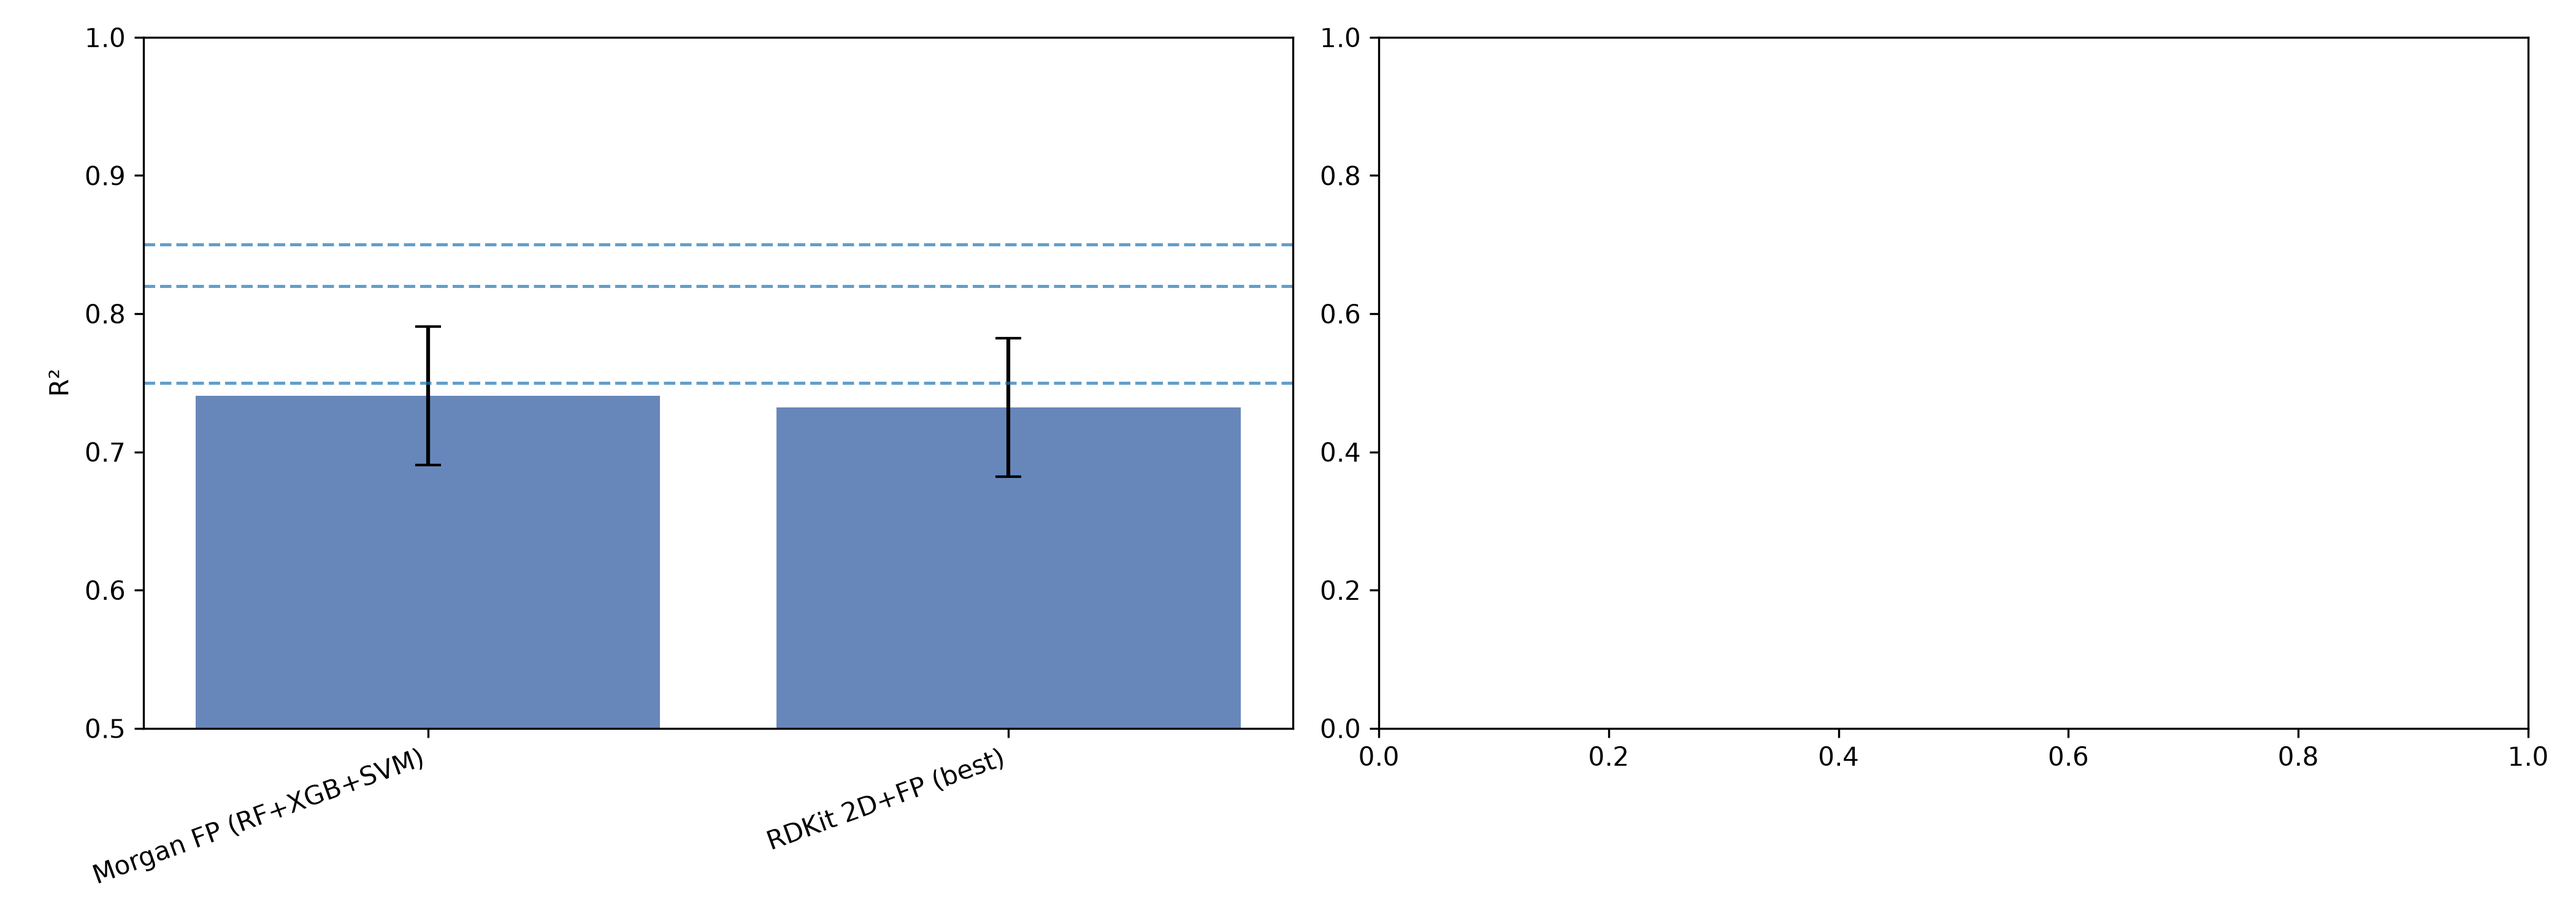
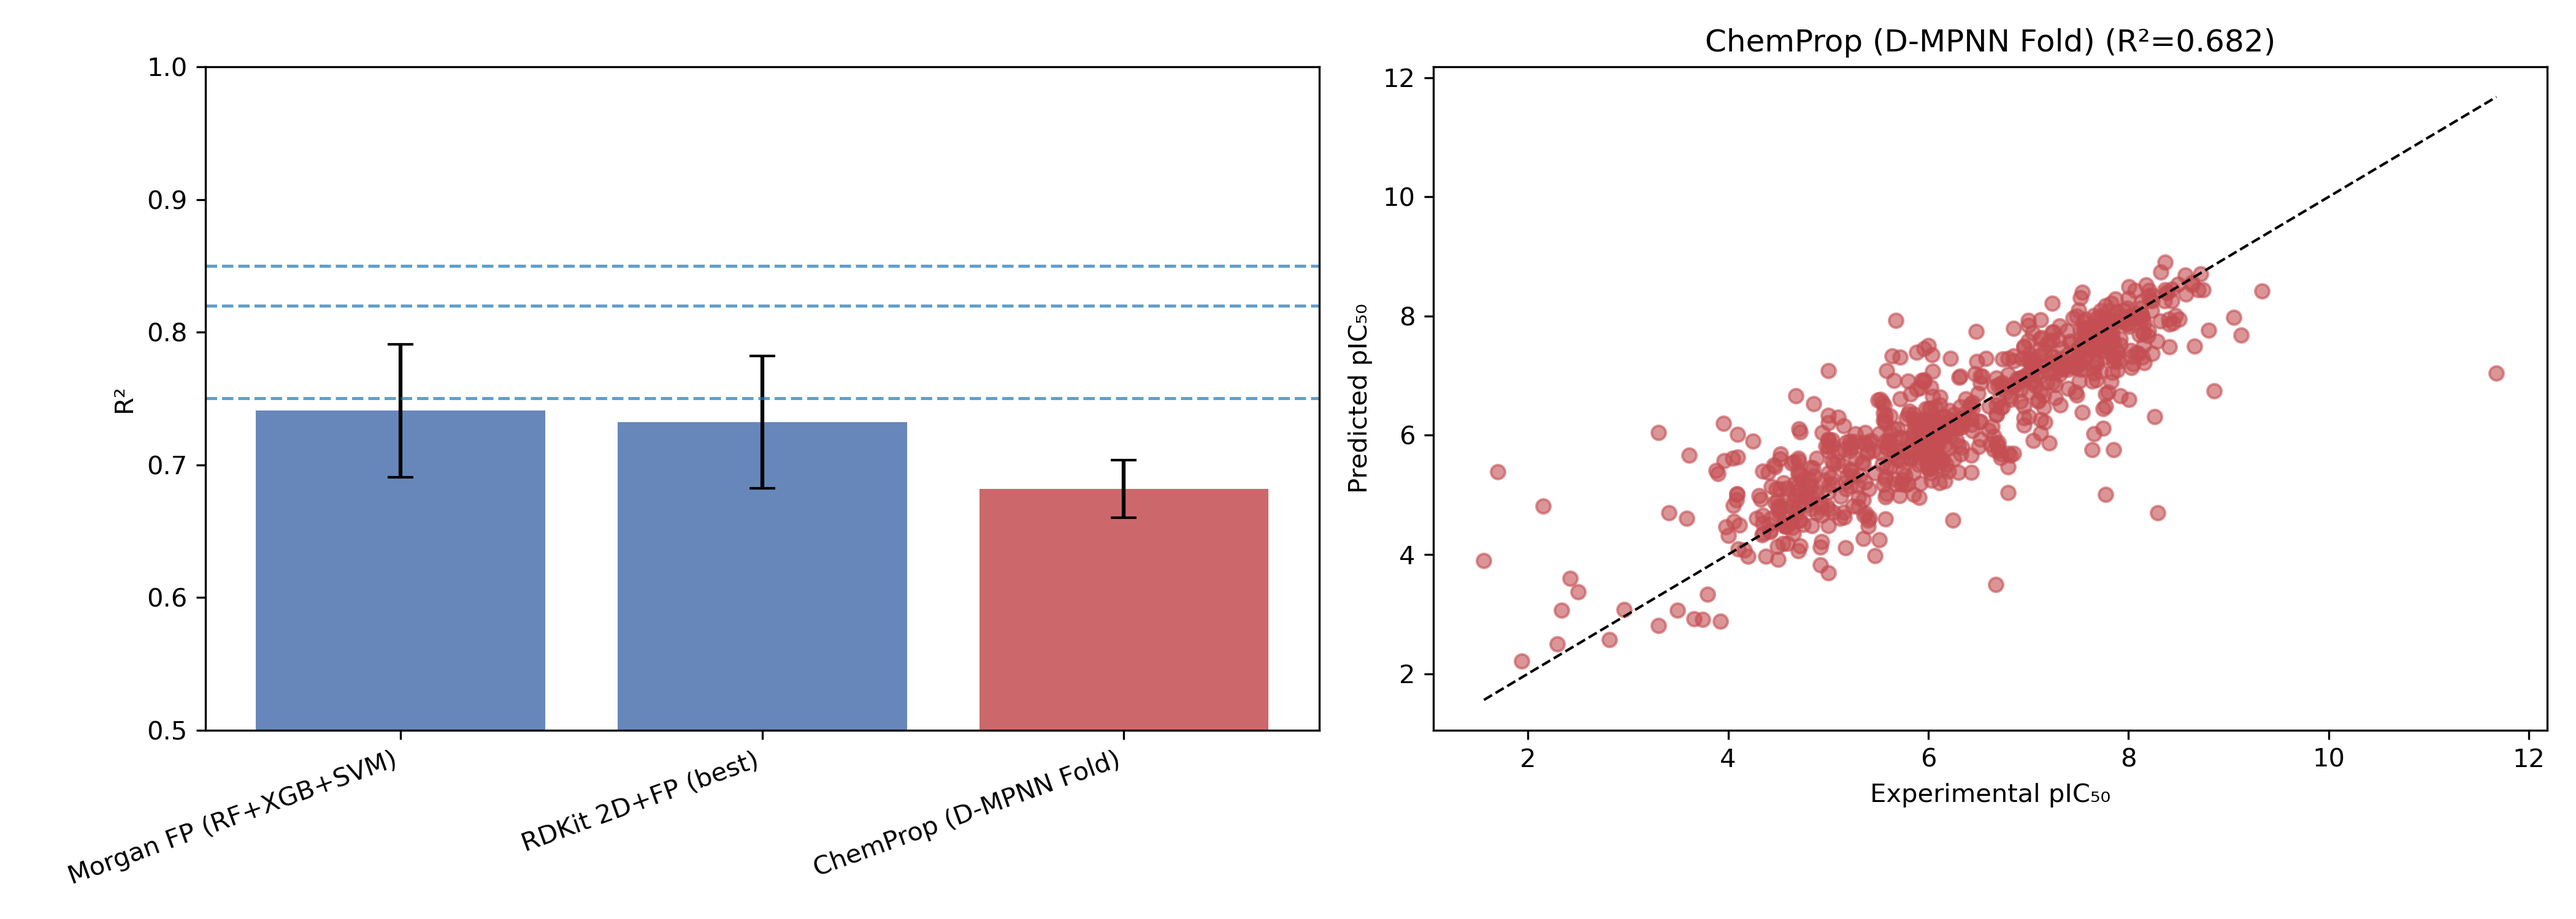
Variables in GNN updated

diff --git a/latex/gnn_variables.tex b/latex/gnn_variables.tex
@@ -1,0 +1,5 @@
+\newcommand{\ChemPropDMPNNFoldRTwoMean}{0.6818}
+\newcommand{\ChemPropDMPNNFoldMae}{0.5329}
+\newcommand{\ChemPropDMPNNFoldRTwoStd}{0.0555}
+\newcommand{\ChemPropDMPNNFoldCILow}{0.6600}
+\newcommand{\ChemPropDMPNNFoldCIHigh}{0.7035}
